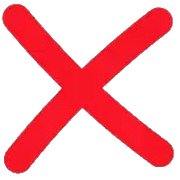
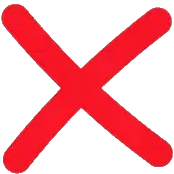
added centering of tick/cross based on screen size

diff --git a/game_page.html b/game_page.html
@@ -11,8 +11,14 @@
 			font-size: 20px;
 		}
 	</style>
+	<script type="text/javascript" src="http://code.jquery.com/jquery-1.7.1.min.js"></script>
 	<script type="text/javascript" src="eng_data.js"></script>
 	<script type="text/javascript">
+		$(document).ready(function() {
+			var window_height = window.innerHeight;
+			var new_height = 550 - window_height;
+    		document.getElementById("c/w_div").style.top = new_height + "px";
+		});
 		var q_no = 0;
 		var clip_no = 0;
 		var main_q_data = [eng_data,
@@ -75,6 +81,7 @@
 		function show_genres() {
 			document.getElementById('start_page').style.display = "none";
 			document.getElementById('gameOver_page').style.display = "none";
+			document.getElementById('game_page').style.display = "none";
 			document.getElementById('genres_page').style.display = "block";
 		}
 		function start_game(genre) {
@@ -265,18 +272,20 @@
 		 	</div>
 	 	</div>
 
-	 	<div style="display: flex; align-items: center; justify-content: center; position: absolute; top: 200px; right: 500px">
+	 	<div id="c/w_div" style="display: flex; align-items: center; justify-content: center; position: relative;">
 	 		<div style="display: flex; align-items: center; justify-content: center;">
 	 			<img id="correct/wrong" src="" style="height: 400px; display: none;">
 	 		</div>
 	 	</div>
 
-	 	<br><br><br><br><br><br><br><br><br><br><br><br><br><br><br><br>
-
-	 	<div style="height: 100%; display: flex; align-items: flex-end; justify-content: flex-end;">
-	 		<button id="ans_button" type="button" style="width: 30%;" onclick="show_answers()">Show Answers</button>
-	 		<button id="next_button" type="button" style="width: 30%; visibility: hidden;" onclick="next_question()">Next Question</button>
-	 	</div>
+	 	<footer style="position: absolute; bottom: 0; width:100%; height: 60px;">
+	 		<div style="height: 100%; display: flex; flex-grow : 1; align-items: flex-end; justify-content: flex-end;">
+	 			<button id="show_genres_button" type="button" style="width: 33%;" onclick="show_genres()">Genre Page</button>
+	 			<button id="ans_button" type="button" style="width: 33%;" onclick="show_answers()">Show Answers</button>
+	 			<button id="next_button" type="button" style="width: 33%; visibility: hidden;" onclick="next_question()">Next Question</button>
+	 		</div>
+	 	</footer>	
+	 	
 	</div>
 
 	<div id="gameOver_page" style="display: none;">
